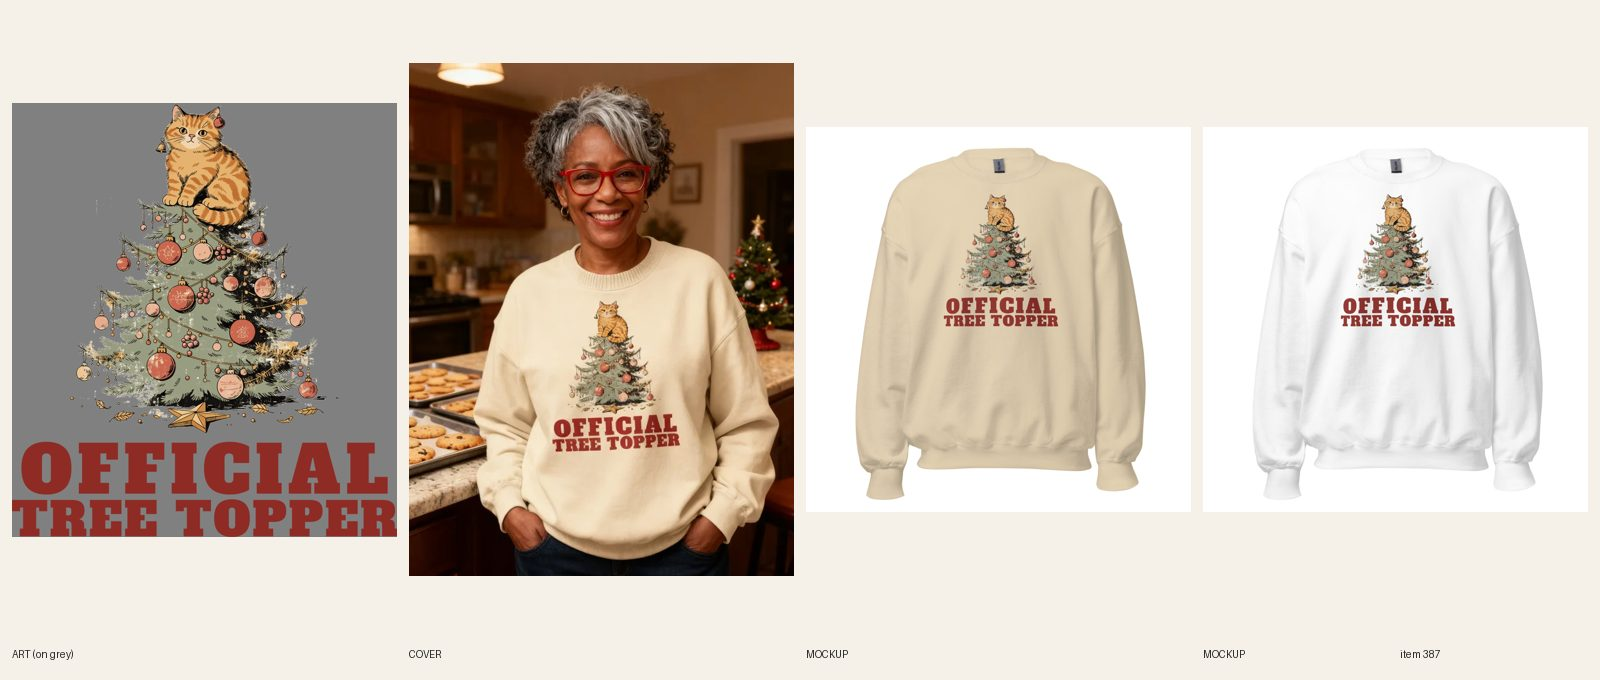
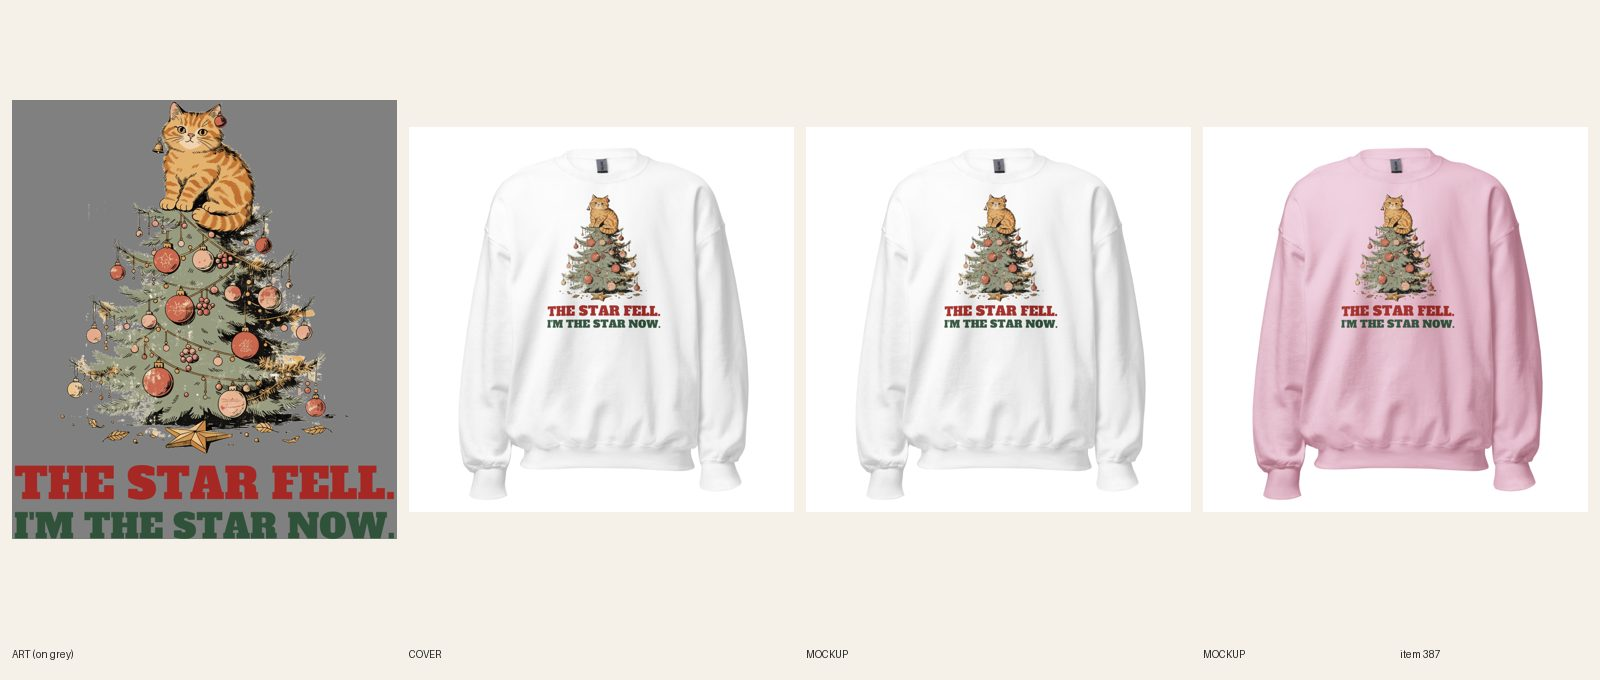
[A] review 387 (redo)
Claude-Session: https://claude.ai/code/session_01LaaEYpKaSBZd9opL7Tpo7i

diff --git a/docs/pipeline/387-christmas-crew-official-tree-topper.md b/docs/pipeline/387-christmas-crew-official-tree-topper.md
@@ -1,4 +1,4 @@
-status: BUILDING [A] 2026-10-20 06:58 UTC
+status: REVIEW
 lane: A
 type: twin
 id: 387
@@ -26,3 +26,4 @@ shopify: gid://shopify/Product/15364875419952
 - 2026-10-18 08:29 UTC builder [A]: REVIEW: Printful sync 482702647 verified 30/30 on default file 1088708607 (FW 1650, back logo 1080398177); every color has its own mockup (R7.7c); audit-local PASS 0 warn (only 'not visible' for a draft); cover checked (all words read, nothing over the print); design-crops cannot see drafts (Storefront): run after publish.
 - 2026-10-18 09:22 UTC director: LIVE. approved from docs/review/387.jpg (tabby tree topper reads on all 5 light colors, Mimi-age woman in a kitchen). Copy: 'christmas' capitalised in line one (R8.5). ACTIVE + Online Store/Headless/Google & YouTube, audit --handle PASS (0 warn).
 - 2026-10-18 17:22 UTC director: QUALITY RESET grade C (new line + type), REDO. The product stays ACTIVE (same handle, URL, title keyword). 1. Line (R3.12, quality-reset 'Lines'): "OFFICIAL / TREE TOPPER": Only describes the picture (cat on tree); type strong. Write 5 candidates, keep the one a stranger laughs at in 3 seconds without backstory; kill lines that only describe the picture; if none of the 5 is funny, PARK it. 2. Quality reset type bar (docs/backlog/quality-reset.md, 'The new bar'): headline at least 90% of the art width, heavy, colors pulled from the art; second line at least 45% of the headline's height, never a thin script on a dark or mid garment; use the lettering as a shape (arch, stacked lockup, words breaking into the art), not a plain bar above and a script line below; no font used on more than 1 in 6 of the last 30 designs. 3. Keep the art if it carries the new line, else one new illustration (R4/R5). New print means a new cover per R6.10, copy line one rewritten for the new joke (R8.3), and a fresh review sheet (R7.7). While quality-reset.md says PAUSED, only lane A builds, and only the samples step 2 names.
+- 2026-10-20 07:19 UTC builder [A]: REDO grade C done (new line + type). Line: THE STAR FELL. / I'M THE STAR NOW. (5 candidates; the star on the floor is the setup, the cat the punchline; title and handle unchanged). Same tabby-on-tree art (old two lines cropped off, 3296x2820), Alfa Slab One both lines at full print width (3249 / 3251 px, second 79% of headline height), red + pine green from the art, lockup 3300x3761, FW 1650 TOP 75. One dark-ink file on all five light colors (no cream fill): 1090221417. Back logo 1080398177 kept. Relinked 30/30 verified. 5 fronts replaced in place (fileUpdate), phone-size read ok. Copy: Story line one, art sentence, SEO title/meta updated; 5 FAQs, Dec 8 kept; no R8.3 opener. Cover: handle added to retired-covers.json (plain product shot). fal $0. audit --handle PASS; astro build ok.

diff --git a/docs/intake-log.md b/docs/intake-log.md
@@ -3,6 +3,7 @@ RUNNING lane C since 2026-10-20 07:00 UTC
 2026-10-20 07:13 UTC — [C] Builder run: redid #506 Men's Golf retired zip hoodie round 2 (director note: RETIRED. / BAD AT GOLF FULL-TIME., punch 2749/2734 px vs headline 2597 px, scene edge ragged-edge.py, Ash file 1090222550 + Navy file 1090222579, BW 1650 BT 225, 12/12 relinked, back mockups replaced, copy + SEO updated). REVIEW. fal $0.
 2026-10-20 06:47 UTC — [B] Run summary: REVIEW #280 #362 #404 #440 (punch width), #318 #396 #513 #519 (crew punch width), #455 (Lost My Gelt), #469 (Busy at a Good Part, embroidered), #697 (new Outdoorsy in Theory cropped hoodie). #485 was finished by a second lane B session. #498 left for director re-grade (R3.14). fal about $0.16. Lock released.
 2026-10-20 07:19 UTC — [B] Builder run: redid #384 Women's Y2K oversized sweatshirt (line + type: RUNNING LATE. / COFFEE ON BOARD., new pink-train art, Bowlby One, Navy + Dust light files, ink widths 3600/3600, 12/12 synced). REVIEW. fal $0.04.
+2026-10-20 07:19 UTC — [A] Builder run: redid #387 Women's Christmas Official Tree Topper crewneck (line+type: THE STAR FELL. / I'M THE STAR NOW., same tabby art, Alfa Slab full width, file 1090221417, 30/30 relinked, 5 fronts replaced in place, copy updated, plain product shot). REVIEW. fal $0.
 2026-10-20 06:57 UTC — [A] Builder run: redid #361 Men's Grandpa I Fix Things After Naps crewneck (line+type: ON THE LIST SINCE 2009. / AFTER MY NAP., same napping grandpa art, Bowlby One full width, FW 1650 TOP 75, Sand file 1090217238 / Navy file 1090217265, 12/12 relinked, 2 fronts replaced in place, copy updated, plain product shot). REVIEW. fal $0.
 2026-10-20 06:58 UTC — [B] Builder run: redid #467 Unisex Embroidered anxiety crewneck as the twin of #466 (REPLAYING / WHAT I SAID / IN 2014., Sand #333366 + Navy #FFFFFF, 12/12 synced). REVIEW. fal $0.
 RUNNING lane E since 2026-10-20 06:47 UTC
